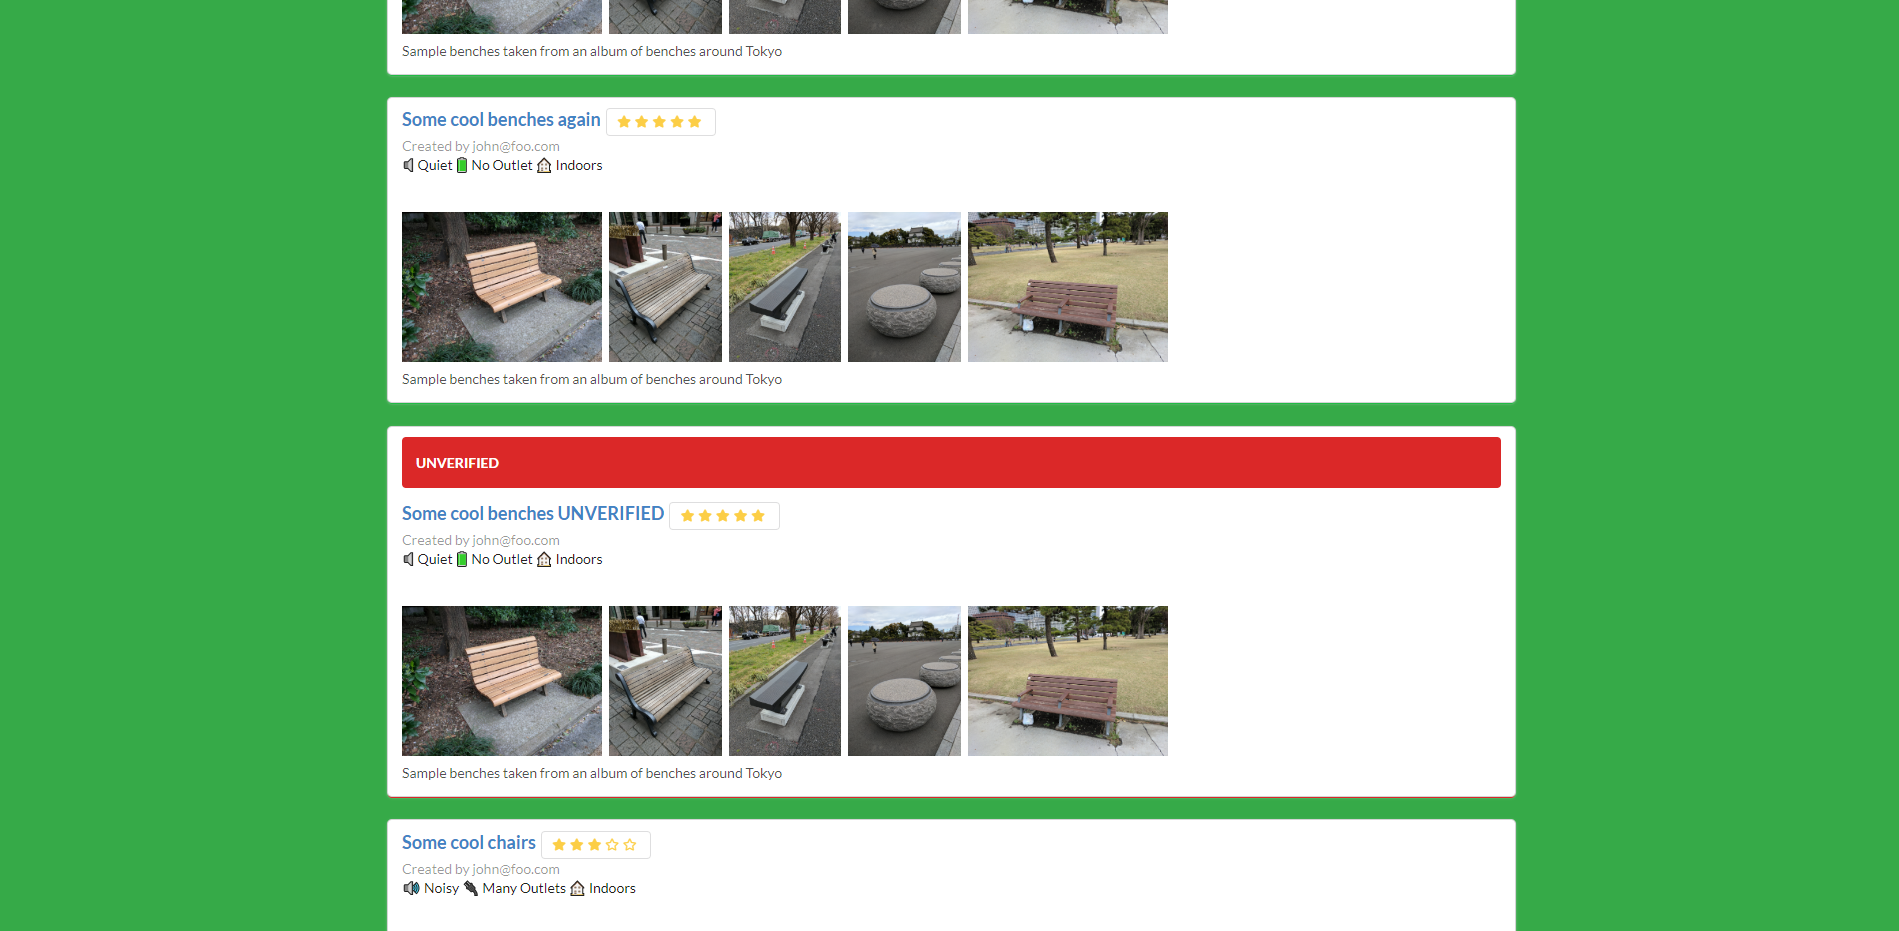
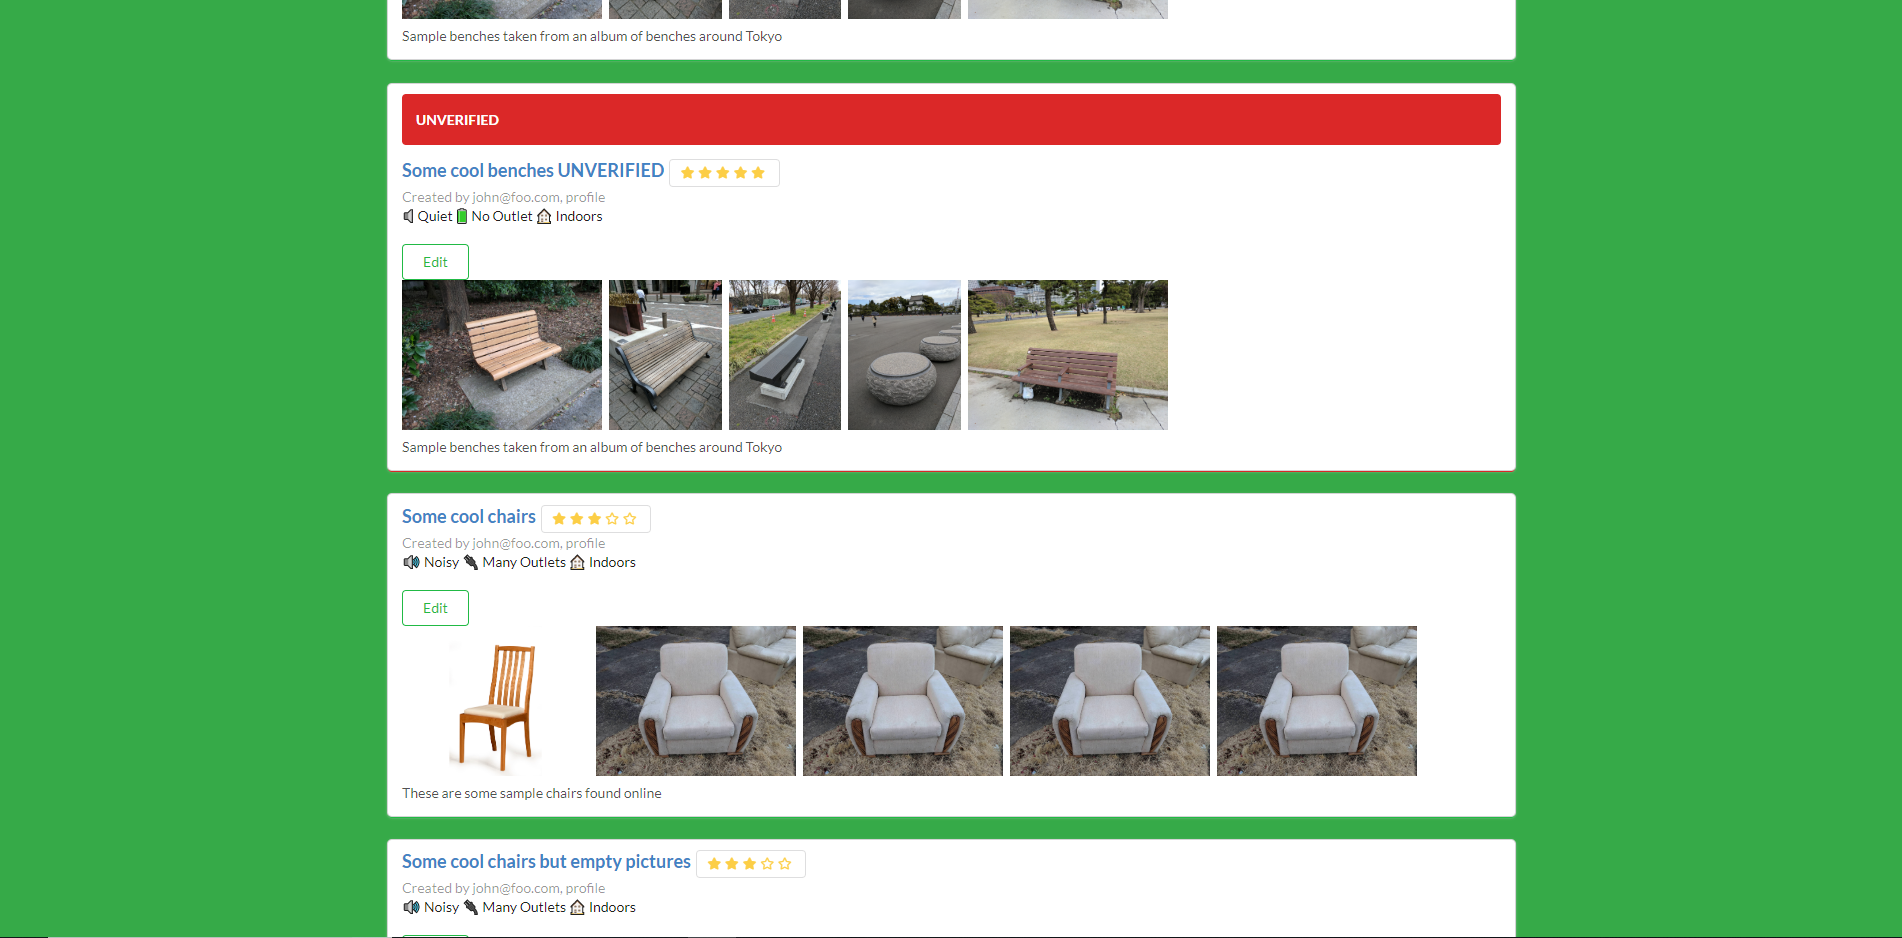
updated photos and info

diff --git a/index.md b/index.md
@@ -25,24 +25,34 @@ This application will give students the access and convenience of knowing where 
  
  - List Spots - <a href='http://alohastudy.meteorapp.com/#/listSpots'>Link</a>
  <img src="mockups/listSpots.PNG">
- This page displays all verified spots. It is intended to allow general users to browse spots that have been posted. From here they can see if a spot is noisy, has outlets or is indoors. There are also ratings displayed for each spot. Clicking the title of a spot will redirect the user to that spot's info page. A banned user cannot visit this page.
+ This page displays all verified spots. It is intended to allow general users to browse spots that have been posted. From here they can see if a spot is noisy, has outlets or is indoors. There are also ratings displayed for each spot. Clicking the title of a spot will redirect the user to that spot's info page. A banned user cannot visit this page. A user can edit their own spots from this page. An admin can edit any visible spots from this page.
  
  - Admin List Spots - <a href='http://alohastudy.meteorapp.com/#/adminSpots'>Link</a>
  <img src="mockups/adminListSpots.PNG">
- This page builds off the List Spots page but instead shows all spots, including unverified ones. This page is intended to allow admins to view all spots and moderate them. For example it allows admins to navigate to unverified posts and consider verifying them.
+ This page builds off the List Spots page but instead shows all spots, including unverified ones. This page is intended to allow admins to view all spots and moderate them. For example it allows admins to navigate to unverified posts and consider verifying them. Admins can edit any spots on this page
+ 
+ - Profile Page - <a href='http://alohastudy.meteorapp.com/#/profile/MyProfile'>Link</a>
+ This page displays the profile page of the currently logged in user. If a valid id is given in the url field then it will instead display the profile page of the user with that id. The information on this page contains the user's name, status and bio. It also shows a list of all their spots. Admins and users are able to edit these spots with the usual restrictions. Navigating to this page when not logged in will currently error. This is to be fixed.
  
  - Spot Info Page - <a href='http://alohastudy.meteorapp.com/#/view/msAu33FngnCjMNcPv'>Link</a>
  <img src="mockups/spotsInfo.PNG">
- This page shows public information on a certain spot. If not verified then there will be a large red tag displaying as such. This page will eventually have a comment system built into it.
+ This page shows public information on a certain spot. If not verified then there will be a large red tag displaying as such. This spot also shows the name of the spot creator and displays their status and profile picture. This page will eventually have a comment system built into it.
  
  - Add Spot - <a href='http://alohastudy.meteorapp.com/#/add'>Link</a>
  <img src="mockups/addSpots.PNG">
- This page allows a user to add a spot to the database. It currently doesn't work completely. It will have it so that in general posts will be initially unverified. A spot submitted by a verified user will be automatically verified.
+ This page allows a user to add a spot to the database. It will have it so that in general posts will be initially unverified. A spot submitted by a verified user will be automatically verified.
+ 
+ - Edit Spot - <a href='http://alohastudy.meteorapp.com/#/edit/id'>Link</a>
+ <img src="mockups/editSpots.PNG">
+ This page allows a user to edit the spot. The form will initially be filled out with the data that the spot currently has. Clicking submit will update the spot with the new information that has been put in the form.
  
  - Login/Logout/Sign up - <a href='http://alohastudy.meteorapp.com/#/signin'>Link</a>
  <img src="mockups/login.png">
  This page is where users can login.
-
+ 
+ - view profile - <a href='http://alohastudy.meteorapp.com/#/'>Link</a>
+ <img src="mockups/viewProfile.png">
+ This allows a user to view their own profile
 
 
 ## Installation
@@ -119,7 +129,7 @@ We utilized issue driven development. This includes having each issue completed 
 
 ## Milestone 2
 
-Milestone 2 adds the ability for users to interact with the databases. This is specifically with the additional of add/edit spot pages and profile pages. A user can now add a spot and then edit any of their own spots. Admins are given the ability to edit anyone's spot. Profiles were added as a database item separate from the accounts. This is to distance the accessibility of a biography page from sensitive login information. Links to the creator of a spot appear on each spot in the spot list page as well as on the spot's info page. A user can view their own profile page by clicking on their username in the top right and clicking "view profile". This will direct them to the url "http://localhost:3000/#/profile/myProfile". This is useful since it allows an easy way for any user to view their own profile without knowing their long generated profile url. An example of a long generated url could be "http://localhost:3000/#/profile/c4Qc3aSSAR4CALC5J".
+Milestone 2 adds the ability for users to interact with the databases. This is specifically with the additional of add/edit spot pages and profile pages. A user can now add a spot and then edit any of their own spots. Admins are given the ability to edit anyone's spot. Profiles were added as a database item separate from the accounts. This is to distance the accessibility of a biography page from sensitive login information. Links to the creator of a spot appear on each spot in the spot list page. A user can view their own profile page by clicking on their username in the top right and clicking "view profile". This will direct them to the url "http://localhost:3000/#/profile/myProfile". This is useful since it allows an easy way for any user to view their own profile without knowing their long generated profile url. An example of a long generated url could be "http://localhost:3000/#/profile/c4Qc3aSSAR4CALC5J".
 
 <img src="images/m2milestone.PNG">
 
